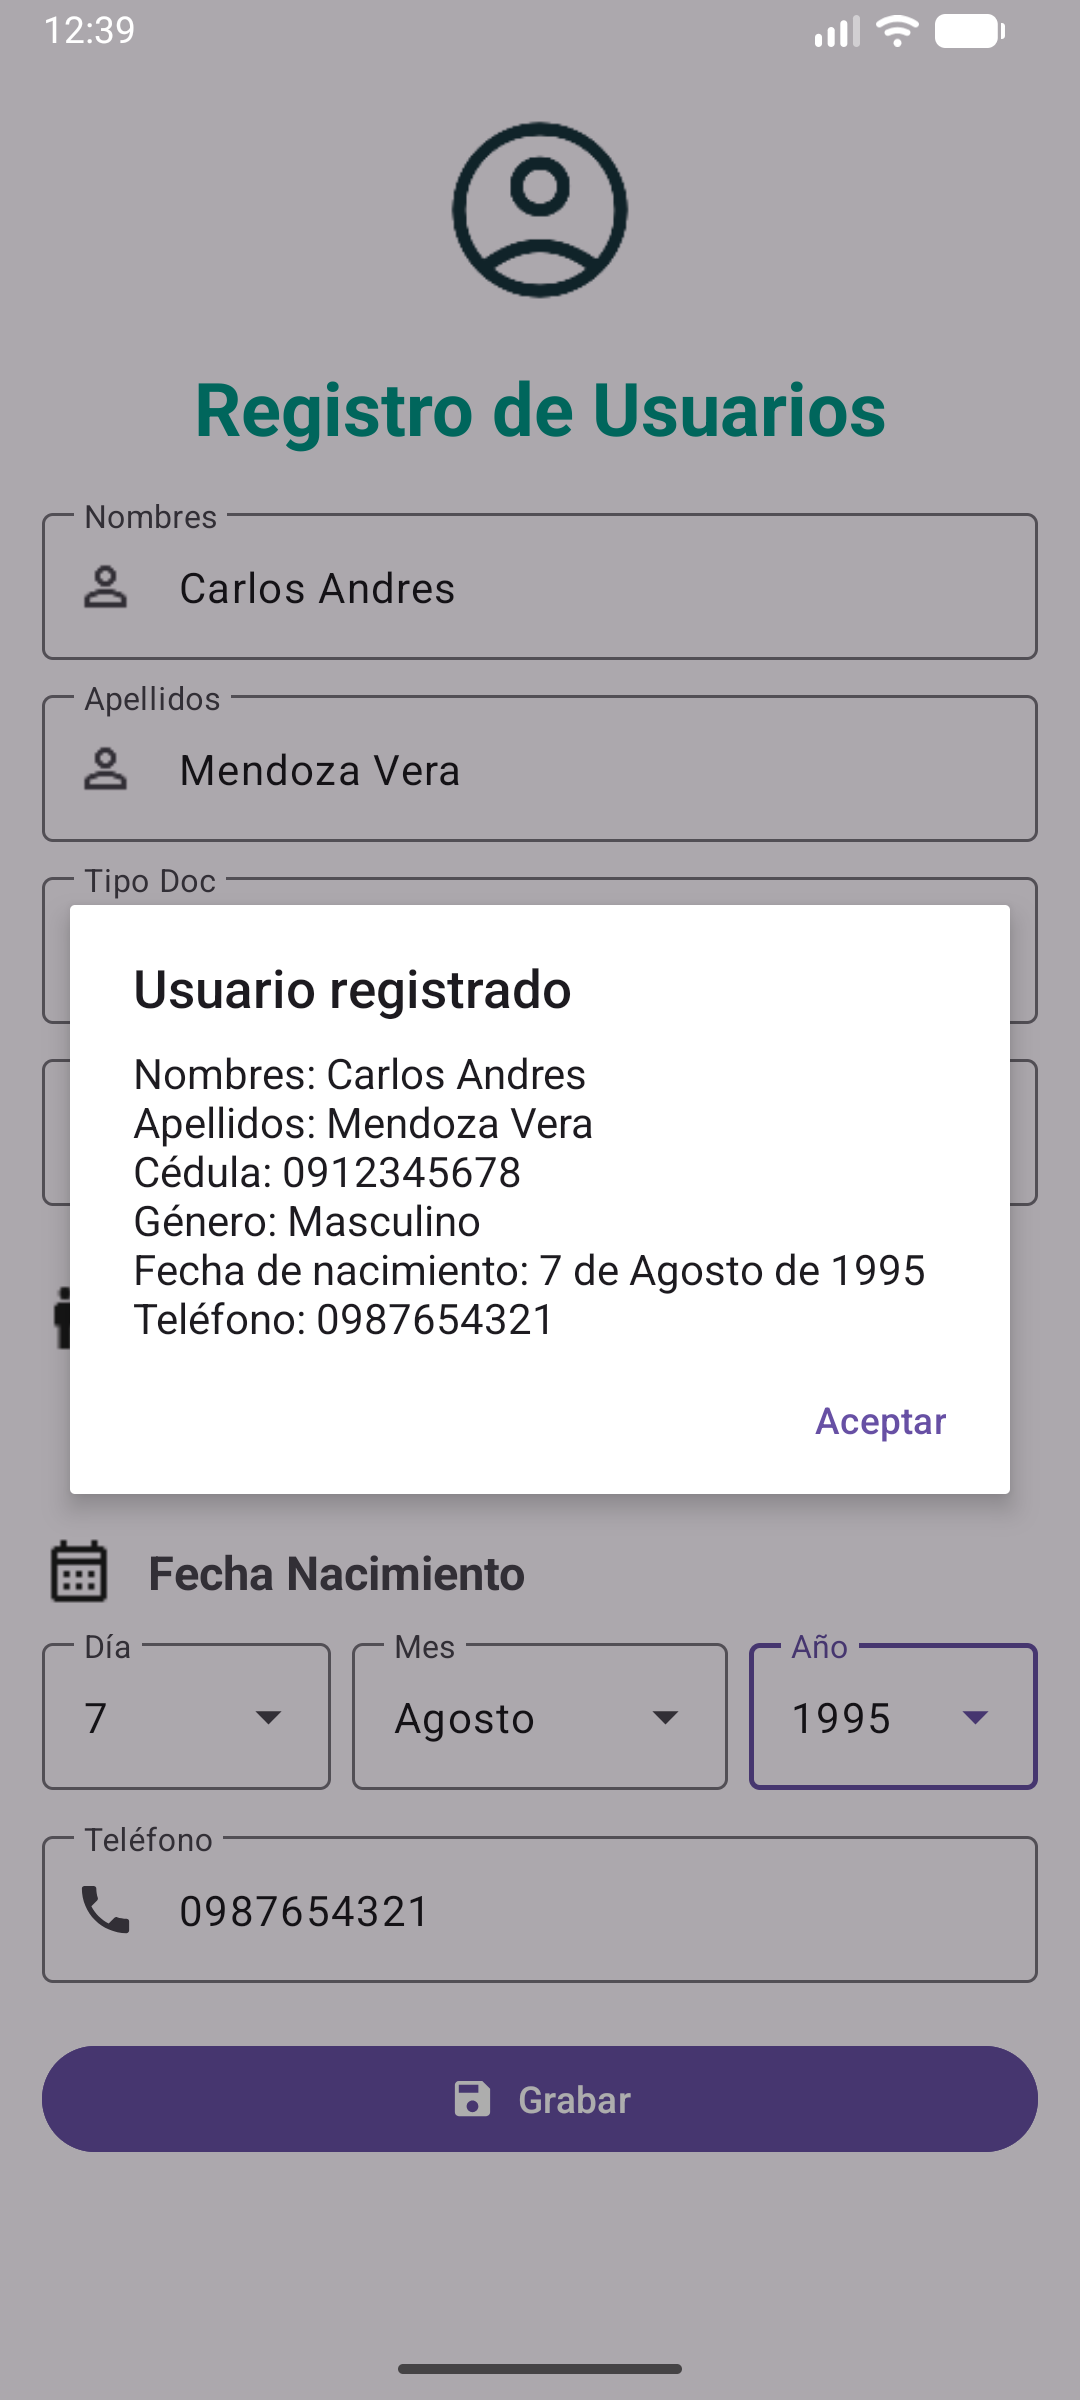
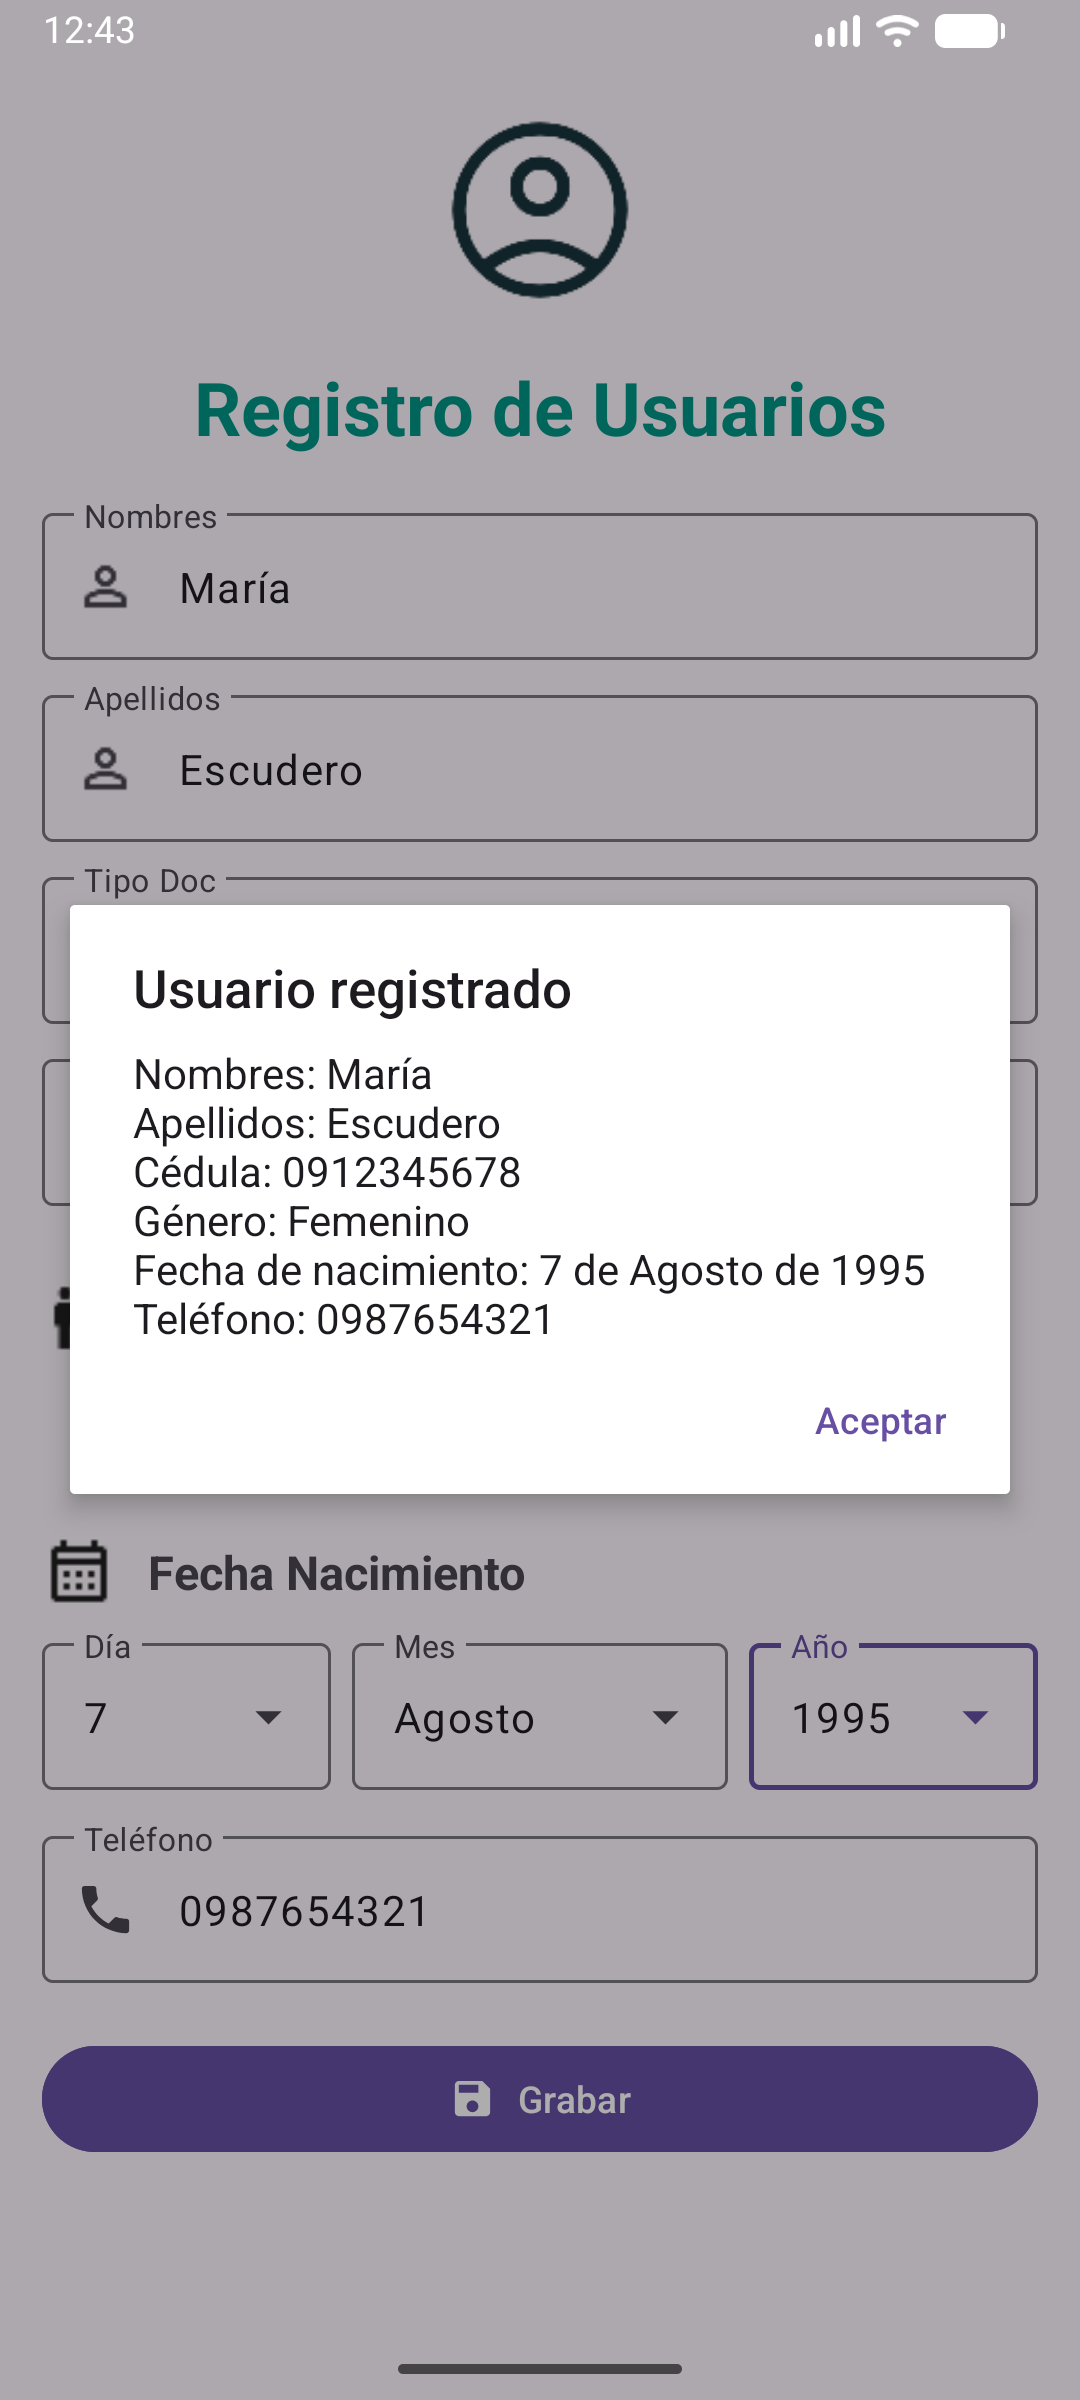
Capturas con los datos de María Escudero y título del README

diff --git a/README.md b/README.md
@@ -1,4 +1,7 @@
-# Práctica 2 – Registro de Usuarios (Android Studio)
+# Android_Studio_Escudero_Maria_Practica2
+Práctica 2 - Registro de Usuarios. Android Studio.
+
+**Autora:** María Escudero
 
 Aplicación Android (Kotlin + XML) con un formulario de **Registro de Usuarios** construido con
 componentes de Material Design 3.
